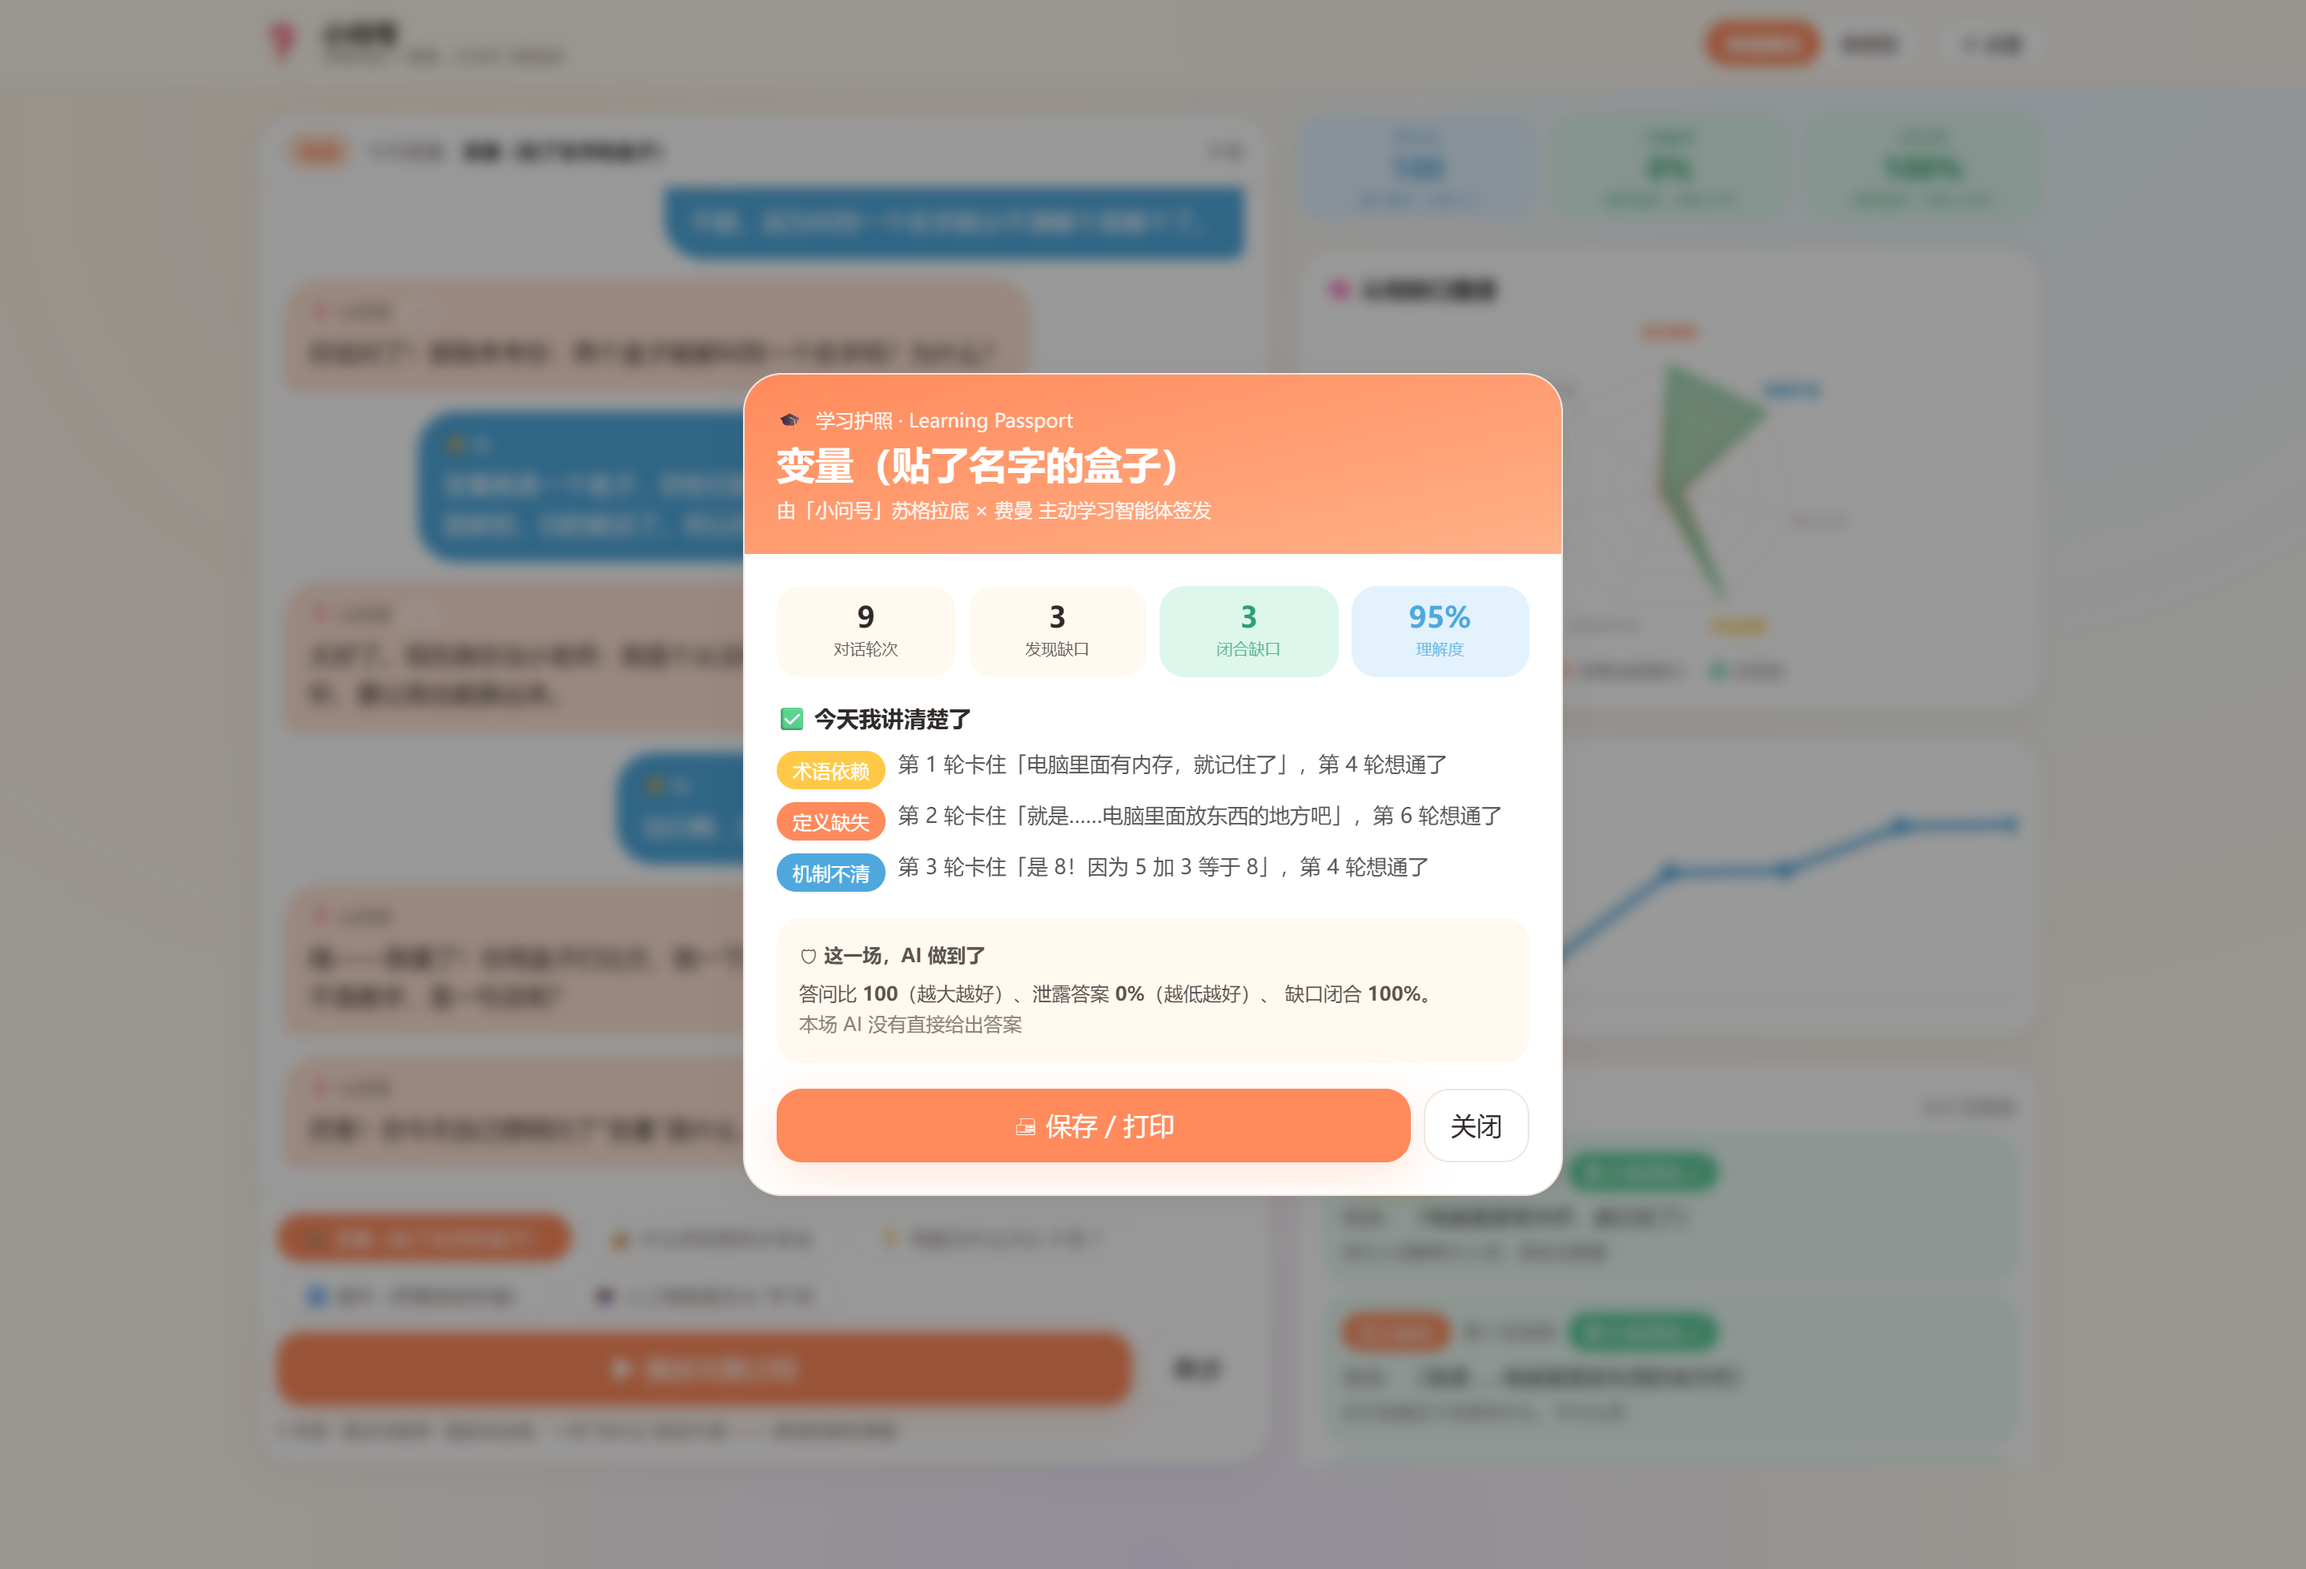
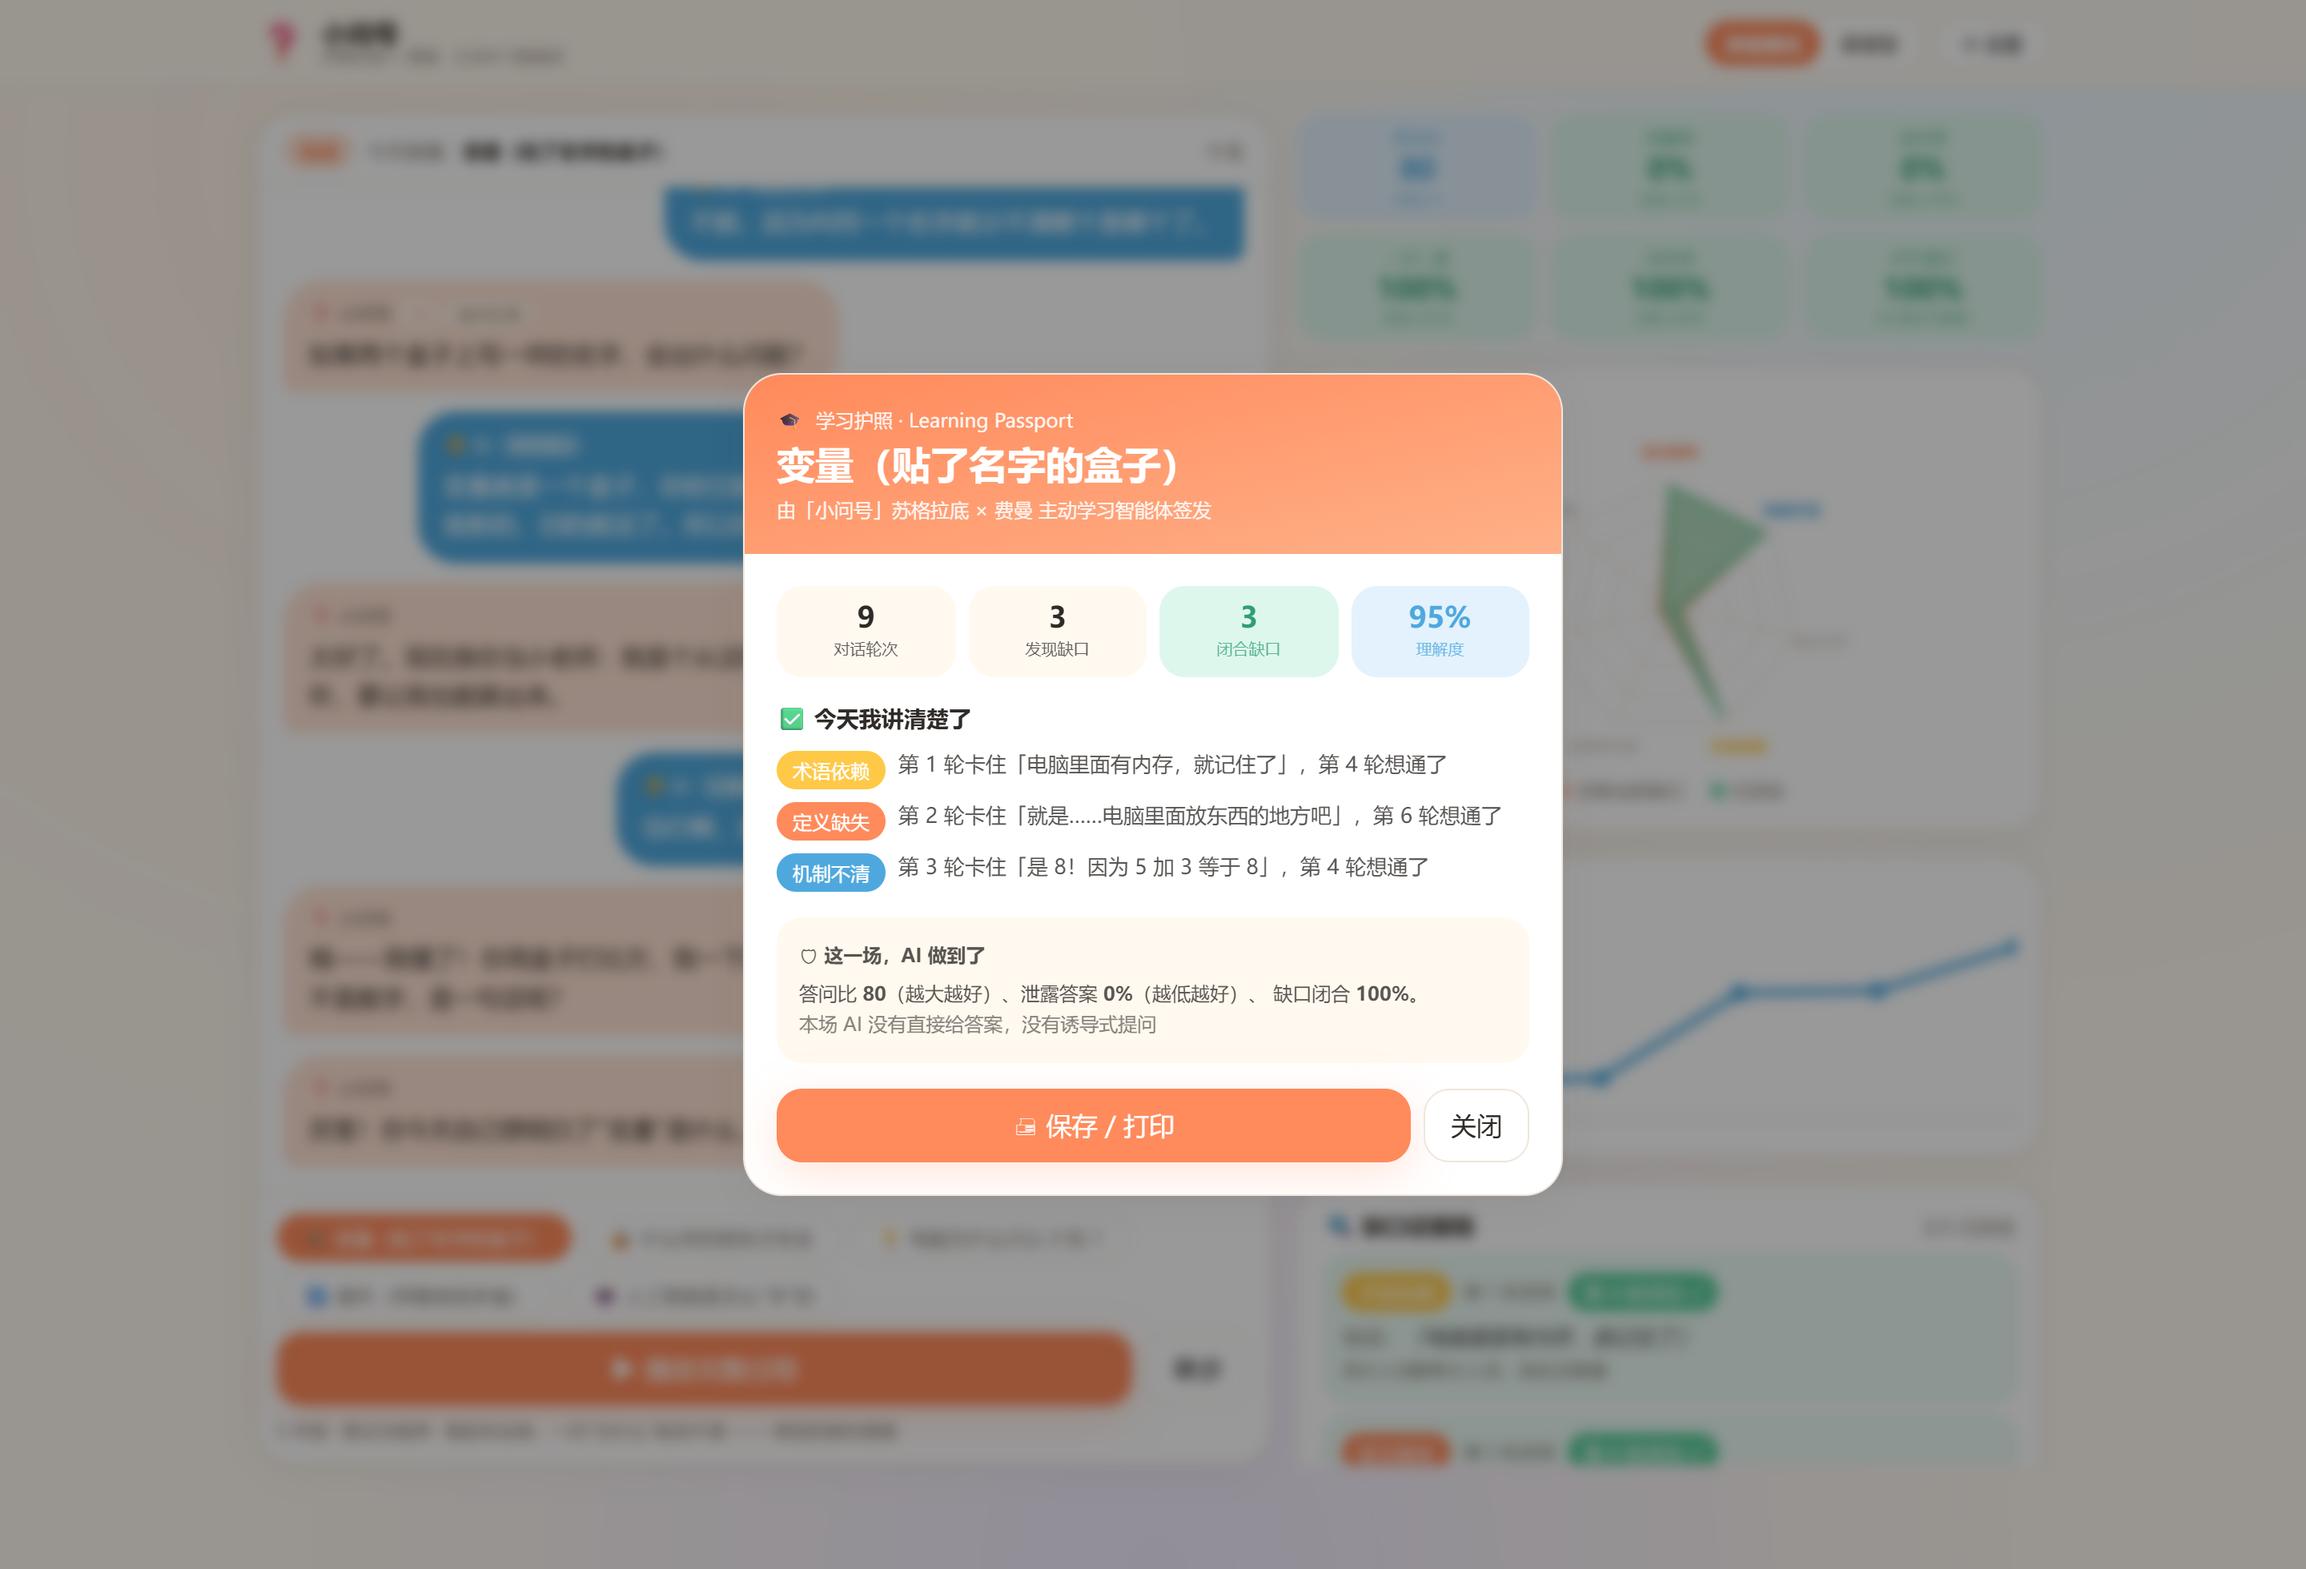
docs: 申报书与 PPT 同步五项指标与新教学机制
- 申报书新增创新点三：分析交给代码，表达交给模型
- 指标表扩为 5 项，补充诱导率的设计理由
- PPT 指标页重排为 5 项，突出诱导率
- 新增 2 个技能包：概念知识库、教学复盘（共 9 个）

diff --git a/scripts/make_docx.py b/scripts/make_docx.py
@@ -185,22 +185,49 @@ para(
 
 para('创新点二：拒答护栏——把"AI 不给答案"变成可当场验证的数字', bold=True)
 para(
-    '"不给答案"很容易承诺，很难证明。本作品内置护栏，在对话过程中实时统计三项指标，'
+    '"不给答案"很容易承诺，很难证明。本作品内置护栏，在对话过程中实时统计五项指标，'
     '评委可在使用时随时查看，无需信任开发者的自述：'
 )
 table([
     ['指标', '定义', '目标', '本项目实测'],
-    ['答问比 Q/A', '疑问句数 ÷ 结论陈述句数', '≥ 3', '60 – 100'],
+    ['答问比 Q/A', '疑问句数 ÷ 结论陈述句数', '≥ 3', '60 – 90'],
     ['泄露率 Leak Rate', '直接给出答案的轮次占比', '≤ 5%', '0%'],
+    ['诱导率 Leading Rate', '把答案藏进问句的轮次占比', '≤ 10%', '0%'],
+    ['一问一题率', '只含一个问号的轮次占比', '≥ 95%', '100%'],
     ['缺口闭合率', '已闭合缺口 ÷ 诊断出的缺口总数', '≥ 60%', '100%'],
-], widths=[3.2, 6.4, 2.6, 3.8])
+], widths=[3.4, 6.2, 2.4, 3.6])
+para(
+    '其中"诱导率"是本作品特别提出的指标。把答案藏进问句（"是不是因为……所以……？"）'
+    '在字面上完全合法——没有结论句、以问号结尾、答问比甚至很高，但它比直接给答案更糟：'
+    '学生以为自己在思考，其实只是在点头。普通护栏检测不到这一类，必须单独建一个检测器。',
+    size=9.5, color=(0x8A, 0x81, 0x7C),
+)
 para(
     '数据来源：pnpm selfcheck，在 5 段回放脚本共 39 轮对话上自动统计，结果可复现。'
     '护栏通过率 39/39 = 100%。',
     size=9.5, color=(0x8A, 0x81, 0x7C),
 )
 
-para('创新点三：面向小学的儿童认知适配', bold=True)
+para('创新点三：分析交给代码，表达交给模型', bold=True)
+para(
+    '只靠 Prompt 让大模型"像苏格拉底一样提问"，会稳定地犯三个错：诱导式提问（答案藏进问句）、'
+    '一问多题（一句话问三件事）、原地打转（反复问同一个问题）。这些错误靠"再写一段更长的 Prompt"治不住。'
+    '本作品把教学决策拆成两层：'
+)
+bullet('规则层（纯代码，稳定可复现）：先给学生的回答分类（8 种状态），再按矩阵决定这一轮该用哪种提问动作（8 种），最后审计这一问是否合格；')
+bullet('模型层：只负责把这个动作说成一句孩子听得懂的话，不再自由决定问什么。')
+para(
+    '支撑规则层的是"概念知识库"：每个概念都写明真懂必须说到哪几句话（用来判掌握，不靠模型感觉）、'
+    '小学生不该随口用的术语、已知的典型错法及对应反问、以及每一层台阶可以问什么。'
+    '现已覆盖变量、循环、算法、二进制、密码安全、人工智能六个概念。',
+)
+para(
+    '费曼环节同样如此：评分由四维加权算出（外行能听懂 30% / 关键点说全 35% / 有生活类比 15% / '
+    '说清了为什么 20%），每一维都给依据；不通过就精确指出卡在哪一句、退回重讲，最多 3 轮。'
+    '这落实的是费曼技巧的第三、四步——而这两步恰恰是多数 AI 实现丢掉的。',
+)
+
+para('创新点四：面向小学的儿童认知适配', bold=True)
 bullet('儿童语言公约：一句话 ≤ 25 字，术语必须翻译成动作（"变量"→"贴了名字的盒子"）；')
 bullet('三个状态按钮（我不知道 / 给点提示 / 我讲完了），绕开打字门槛；')
 bullet('挫败防护：连续答不上来自动降层重问，只给"最小提示"，绝不给完整答案；')

diff --git a/scripts/fix_pptx.py b/scripts/fix_pptx.py
@@ -1,0 +1,79 @@
+# -*- coding: utf-8 -*-
+# 把 PPT 指标页从 3 项改为 5 项
+import pathlib
+
+p = pathlib.Path("scripts/make_pptx.py")
+t = p.read_text(encoding="utf-8")
+
+old = """metrics = [
+    ('答问比 Q/A', '疑问句 ÷ 结论句', '≥ 3', '60 – 100', BLUE),
+    ('泄露率', '给答案的轮次占比', '≤ 5%', '0%', GREEN),
+    ('缺口闭合率', '已闭合 ÷ 诊断出', '≥ 60%', '100%', PRIMARY),
+]
+for i, (name, defi, target, real, c) in enumerate(metrics):
+    x = 0.8 + i * 3.95
+    rect(s, x, 2.5, 3.7, 2.3, fill=WHITE, line=c)
+    text(s, x + 0.25, 2.72, 3.2, 0.5, [(name, 18, True, c)])
+    text(s, x + 0.25, 3.28, 3.2, 0.4, [(defi, 12, False, MUTE)])
+    text(s, x + 0.25, 3.72, 3.2, 0.7, [('实测', 12, False, MUTE), (real, 30, True, c)], spacing=2)
+    text(s, x + 0.25, 4.25, 3.2, 0.4, [(f'目标 {target}', 12, False, MUTE)])"""
+
+new = """metrics = [
+    ('答问比', '疑问句 ÷ 结论句', '≥ 3', '60-90', BLUE),
+    ('泄露率', '给答案的轮次', '≤ 5%', '0%', GREEN),
+    ('诱导率', '答案藏进问句', '≤ 10%', '0%', RGBColor(0xF7, 0x6E, 0x8E)),
+    ('一问一题', '只含一个问号', '≥ 95%', '100%', PRIMARY),
+    ('闭合率', '已闭合 ÷ 诊断出', '≥ 60%', '100%', PURPLE),
+]
+for i, (name, defi, target, real, c) in enumerate(metrics):
+    x = 0.8 + (i % 3) * 3.95
+    y = 2.55 + (i // 3) * 1.85
+    rect(s, x, y, 3.7, 1.65, fill=WHITE, line=c)
+    text(s, x + 0.22, y + 0.14, 3.2, 0.42, [(name, 16, True, c)])
+    text(s, x + 0.22, y + 0.56, 3.2, 0.32, [(defi, 11, False, MUTE)])
+    text(s, x + 0.22, y + 0.88, 1.9, 0.5, [(real, 25, True, c)])
+    text(s, x + 1.95, y + 1.02, 1.55, 0.32, [(f'目标 {target}', 10, False, MUTE)])"""
+
+assert old in t, "metrics block NOT found"
+t = t.replace(old, new)
+
+# 绿色条下移，文字更新
+t = t.replace(
+    "rect(s, 0.8, 5.15, 11.7, 1.0, fill=RGBColor(0xDE, 0xF7, 0xEC), line=GREEN)",
+    "rect(s, 0.8, 6.35, 11.7, 0.72, fill=RGBColor(0xDE, 0xF7, 0xEC), line=GREEN)",
+)
+t = t.replace(
+    "    ('护栏通过率 39 / 39 = 100%（5 段回放脚本 · 共 39 轮）', 17, True, RGBColor(0x2F, 0x9E, 0x75)),",
+    "    ('护栏通过率 39 / 39 = 100%（5 段脚本 · 共 39 轮）', 14, True, RGBColor(0x2F, 0x9E, 0x75)),",
+)
+t = t.replace(
+    "text(s, 1.1, 5.35, 11.1, 0.7, [",
+    "text(s, 1.05, 6.5, 11.2, 0.42, [",
+)
+t = t.replace(
+    "text(s, 1.1, 5.78, 11.1, 0.4,",
+    "text(s, 0.8, 7.08, 11.7, 0.3,",
+)
+t = t.replace(
+    "     [('数据来源：pnpm selfcheck，结果可复现；评委可在使用时随时查看，无需信任开发者自述。', 11, False, MUTE)])",
+    "     [('数据来源 pnpm selfcheck，结果可复现', 9, False, MUTE)])",
+)
+# 删掉底部那行
+t = t.replace(
+    """text(s, 0.8, 6.45, 11.7, 0.5,
+     [('线上链接经浏览器实测：7 项全通过，零控制台错误。', 13, False, MUTE)])""",
+    "",
+)
+# 顶部说明改
+t = t.replace(
+    """text(s, 0.8, 1.8, 11.7, 0.5,
+     [('"AI 不给答案"很容易承诺，很难证明。小问号把它变成三个可当场验证的数字。', 16, False, MUTE)])""",
+    """text(s, 0.8, 1.76, 11.7, 0.42,
+     [('"不给答案"很容易承诺，很难证明。小问号把它变成五个可当场验证的数字。', 14, False, MUTE)])
+text(s, 0.8, 2.14, 11.7, 0.35,
+     [('诱导率隐蔽性最高：答案藏进问句，字面合法，学生却只在点头。', 10.5, False,
+       RGBColor(0xF7, 0x6E, 0x8E))])""",
+)
+
+p.write_text(t, encoding="utf-8")
+print("patched OK")

diff --git a/scripts/make_pptx.py b/scripts/make_pptx.py
@@ -255,31 +255,36 @@ slide_bg(s)
 text(s, 0.8, 0.55, 12, 0.8, [('六、拒答护栏：「不给答案」是可以测量的', 32, True, INK)])
 rect(s, 0.8, 1.5, 11.7, 0.05, fill=LINE)
 
-text(s, 0.8, 1.8, 11.7, 0.5,
-     [('"AI 不给答案"很容易承诺，很难证明。小问号把它变成三个可当场验证的数字。', 16, False, MUTE)])
+text(s, 0.8, 1.76, 11.7, 0.42,
+     [('"不给答案"很容易承诺，很难证明。小问号把它变成五个可当场验证的数字。', 14, False, MUTE)])
+text(s, 0.8, 2.14, 11.7, 0.35,
+     [('诱导率隐蔽性最高：答案藏进问句，字面合法，学生却只在点头。', 10.5, False,
+       RGBColor(0xF7, 0x6E, 0x8E))])
 
 metrics = [
-    ('答问比 Q/A', '疑问句 ÷ 结论句', '≥ 3', '60 – 100', BLUE),
-    ('泄露率', '给答案的轮次占比', '≤ 5%', '0%', GREEN),
-    ('缺口闭合率', '已闭合 ÷ 诊断出', '≥ 60%', '100%', PRIMARY),
+    ('答问比', '疑问句 ÷ 结论句', '≥ 3', '60-90', BLUE),
+    ('泄露率', '给答案的轮次', '≤ 5%', '0%', GREEN),
+    ('诱导率', '答案藏进问句', '≤ 10%', '0%', RGBColor(0xF7, 0x6E, 0x8E)),
+    ('一问一题', '只含一个问号', '≥ 95%', '100%', PRIMARY),
+    ('闭合率', '已闭合 ÷ 诊断出', '≥ 60%', '100%', PURPLE),
 ]
 for i, (name, defi, target, real, c) in enumerate(metrics):
-    x = 0.8 + i * 3.95
-    rect(s, x, 2.5, 3.7, 2.3, fill=WHITE, line=c)
-    text(s, x + 0.25, 2.72, 3.2, 0.5, [(name, 18, True, c)])
-    text(s, x + 0.25, 3.28, 3.2, 0.4, [(defi, 12, False, MUTE)])
-    text(s, x + 0.25, 3.72, 3.2, 0.7, [('实测', 12, False, MUTE), (real, 30, True, c)], spacing=2)
-    text(s, x + 0.25, 4.25, 3.2, 0.4, [(f'目标 {target}', 12, False, MUTE)])
+    x = 0.8 + (i % 3) * 3.95
+    y = 2.55 + (i // 3) * 1.85
+    rect(s, x, y, 3.7, 1.65, fill=WHITE, line=c)
+    text(s, x + 0.22, y + 0.14, 3.2, 0.42, [(name, 16, True, c)])
+    text(s, x + 0.22, y + 0.56, 3.2, 0.32, [(defi, 11, False, MUTE)])
+    text(s, x + 0.22, y + 0.88, 1.9, 0.5, [(real, 25, True, c)])
+    text(s, x + 1.95, y + 1.02, 1.55, 0.32, [(f'目标 {target}', 10, False, MUTE)])
 
-rect(s, 0.8, 5.15, 11.7, 1.0, fill=RGBColor(0xDE, 0xF7, 0xEC), line=GREEN)
-text(s, 1.1, 5.35, 11.1, 0.7, [
-    ('护栏通过率 39 / 39 = 100%（5 段回放脚本 · 共 39 轮）', 17, True, RGBColor(0x2F, 0x9E, 0x75)),
+rect(s, 0.8, 6.35, 11.7, 0.72, fill=RGBColor(0xDE, 0xF7, 0xEC), line=GREEN)
+text(s, 1.05, 6.5, 11.2, 0.42, [
+    ('护栏通过率 39 / 39 = 100%（5 段脚本 · 共 39 轮）', 14, True, RGBColor(0x2F, 0x9E, 0x75)),
 ], )
-text(s, 1.1, 5.78, 11.1, 0.4,
-     [('数据来源：pnpm selfcheck，结果可复现；评委可在使用时随时查看，无需信任开发者自述。', 11, False, MUTE)])
+text(s, 0.8, 7.08, 11.7, 0.3,
+     [('数据来源 pnpm selfcheck，结果可复现', 9, False, MUTE)])
 
-text(s, 0.8, 6.45, 11.7, 0.5,
-     [('线上链接经浏览器实测：7 项全通过，零控制台错误。', 13, False, MUTE)])
+
 
 # ============================================================ 8 儿童适配
 s = prs.slides.add_slide(BLANK)
